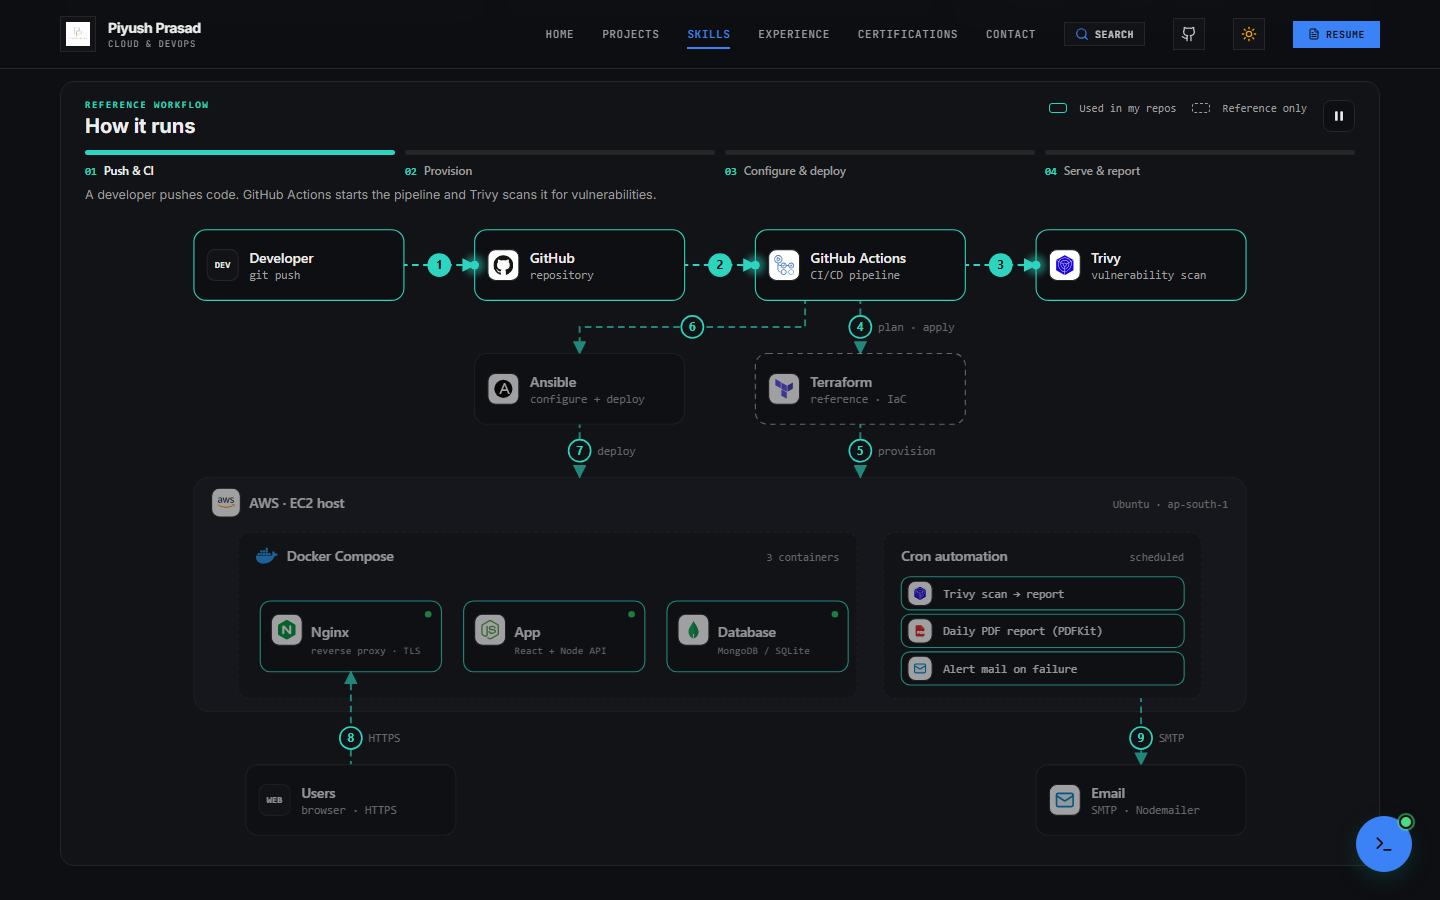
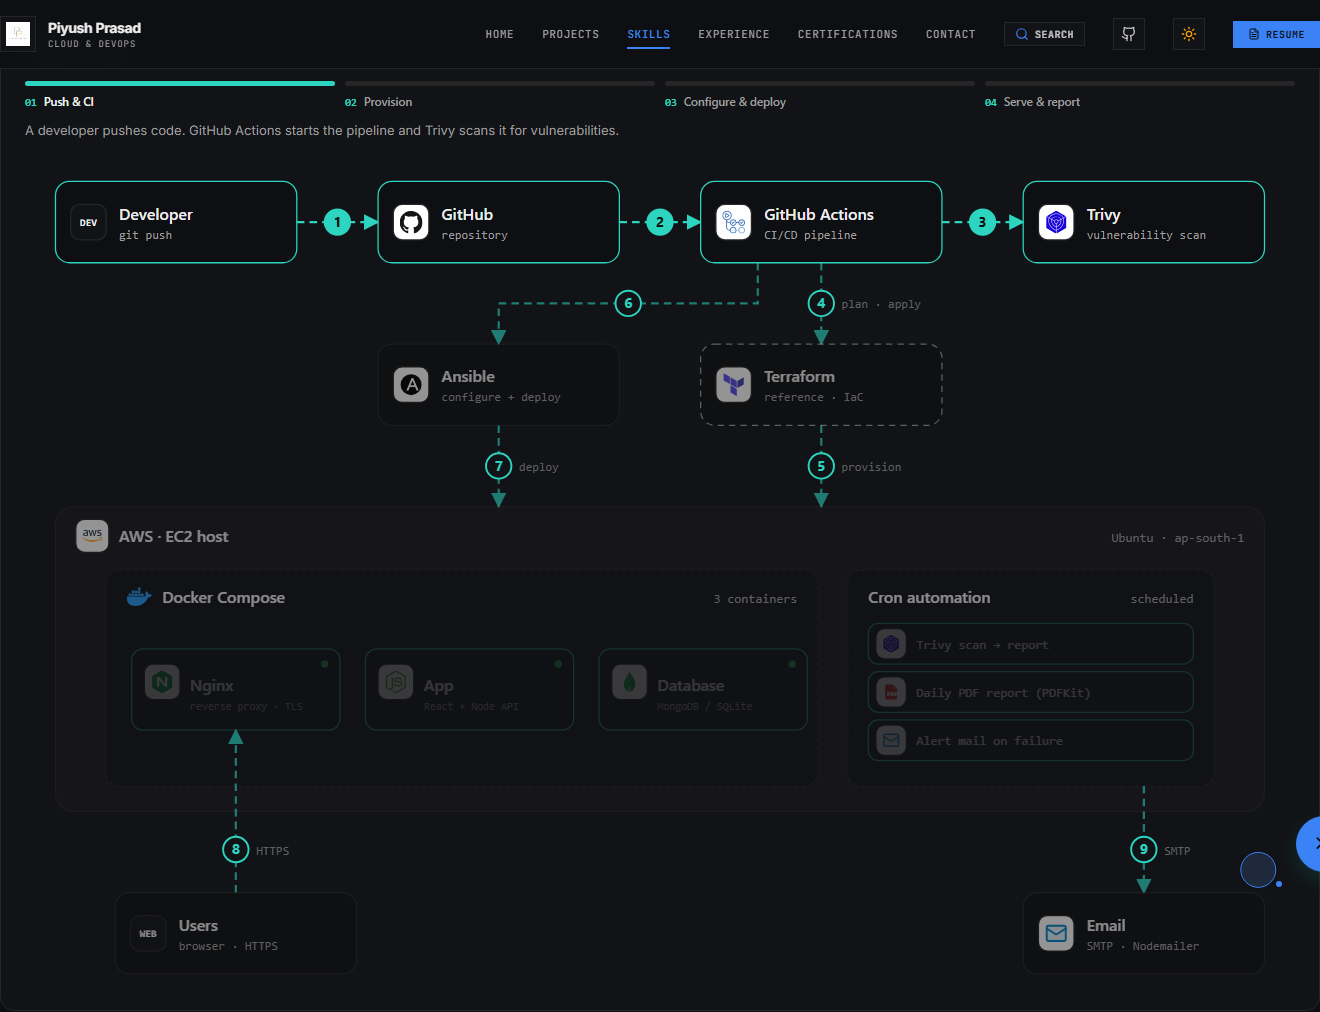
revert: revert feat(skills) compact HowItRuns card height to restore previous staging

diff --git a/src/components/portfolio/HowItRuns.tsx b/src/components/portfolio/HowItRuns.tsx
@@ -41,8 +41,8 @@ type Node = {
 const W = 190;
 const H = 64;
 const COL = [24, 278, 532, 786]; // node lefts, 64px gaps
-const ROW1 = 16;
-const ROW2 = 128;
+const ROW1 = 24;
+const ROW2 = 152;
 
 const NODES: Node[] = [
   { id: "dev", x: COL[0], y: ROW1, w: W, h: H, name: "Developer", sub: "git push", fb: "DEV", steps: [0], tip: "Pushes code to the repository" },
@@ -51,22 +51,22 @@ const NODES: Node[] = [
   { id: "trivy", x: COL[3], y: ROW1, w: W, h: H, name: "Trivy", sub: "vulnerability scan", logo: "trivy", fb: "TR", steps: [0], tip: "Scans the code and images for known vulnerabilities" },
   { id: "ans", x: COL[1], y: ROW2, w: W, h: H, name: "Ansible", sub: "configure + deploy", logo: "ansible", fb: "AN", steps: [2], tip: "ansible-playbook configures the server and deploys the app over SSH" },
   { id: "tf", x: COL[2], y: ROW2, w: W, h: H, name: "Terraform", sub: "reference · IaC", logo: "terraform", fb: "TF", steps: [1], ref: true, tip: "plan / apply creates the AWS resources as code (reference step)" },
-  { id: "users", x: 71, y: 500, w: W, h: H, name: "Users", sub: "browser · HTTPS", fb: "WEB", steps: [3], tip: "Visitors reach the app over HTTPS" },
-  { id: "mail", x: COL[3], y: 500, w: W, h: H, name: "Email", sub: "SMTP · Nodemailer", logo: "mail", fb: "@", steps: [3], tip: "Daily PDF report and alert emails" },
+  { id: "users", x: 71, y: 584, w: W, h: H, name: "Users", sub: "browser · HTTPS", fb: "WEB", steps: [3], tip: "Visitors reach the app over HTTPS" },
+  { id: "mail", x: COL[3], y: 584, w: W, h: H, name: "Email", sub: "SMTP · Nodemailer", logo: "mail", fb: "@", steps: [3], tip: "Daily PDF report and alert emails" },
 ];
 
 type Edge = { n: number; step: number; d: string; len: number; bx: number; by: number; tip: string; label?: { x: number; y: number; t: string } };
 
 const EDGES: Edge[] = [
-  { n: 1, step: 0, d: "M214 48 H278", len: 64, bx: 246, by: 48, tip: "git push to the repository" },
-  { n: 2, step: 0, d: "M468 48 H532", len: 64, bx: 500, by: 48, tip: "A push or pull request triggers the workflow" },
-  { n: 3, step: 0, d: "M722 48 H786", len: 64, bx: 754, by: 48, tip: "Security scan of the code and images" },
-  { n: 4, step: 1, d: "M627 80 V128", len: 48, bx: 627, by: 104, tip: "Pipeline runs terraform plan and apply", label: { x: 643, y: 108, t: "plan · apply" } },
-  { n: 5, step: 1, d: "M627 192 V240", len: 48, bx: 627, by: 216, tip: "Terraform creates the AWS environment", label: { x: 643, y: 220, t: "provision" } },
-  { n: 6, step: 2, d: "M577 80 V104 H373 V128", len: 252, bx: 475, by: 104, tip: "Pipeline connects to the Ansible server over SSH" },
-  { n: 7, step: 2, d: "M373 192 V240", len: 48, bx: 373, by: 216, tip: "ansible-playbook deploys to the EC2 host", label: { x: 389, y: 220, t: "deploy" } },
-  { n: 8, step: 3, d: "M166 500 V416", len: 84, bx: 166, by: 476, tip: "Users reach Nginx over HTTPS", label: { x: 182, y: 480, t: "HTTPS" } },
-  { n: 9, step: 3, d: "M881 440 V500", len: 60, bx: 881, by: 476, tip: "Cron jobs email the PDF report and alerts", label: { x: 897, y: 480, t: "SMTP" } },
+  { n: 1, step: 0, d: "M214 56 H278", len: 64, bx: 246, by: 56, tip: "git push to the repository" },
+  { n: 2, step: 0, d: "M468 56 H532", len: 64, bx: 500, by: 56, tip: "A push or pull request triggers the workflow" },
+  { n: 3, step: 0, d: "M722 56 H786", len: 64, bx: 754, by: 56, tip: "Security scan of the code and images" },
+  { n: 4, step: 1, d: "M627 88 V152", len: 64, bx: 627, by: 120, tip: "Pipeline runs terraform plan and apply", label: { x: 643, y: 124, t: "plan · apply" } },
+  { n: 5, step: 1, d: "M627 216 V280", len: 64, bx: 627, by: 248, tip: "Terraform creates the AWS environment", label: { x: 643, y: 252, t: "provision" } },
+  { n: 6, step: 2, d: "M577 88 V120 H373 V152", len: 268, bx: 475, by: 120, tip: "Pipeline connects to the Ansible server over SSH" },
+  { n: 7, step: 2, d: "M373 216 V280", len: 64, bx: 373, by: 248, tip: "ansible-playbook deploys to the EC2 host", label: { x: 389, y: 252, t: "deploy" } },
+  { n: 8, step: 3, d: "M166 584 V456", len: 128, bx: 166, by: 550, tip: "Users reach Nginx over HTTPS", label: { x: 182, y: 554, t: "HTTPS" } },
+  { n: 9, step: 3, d: "M881 500 V584", len: 84, bx: 881, by: 550, tip: "Cron jobs email the PDF report and alerts", label: { x: 897, y: 554, t: "SMTP" } },
 ];
 
 const STEPS = [
@@ -95,7 +95,7 @@ function Tile({ x, y, size = 28, href, fb }: { x: number; y: number; size?: numb
       {href ? (
         <image href={href} x={x + 5} y={y + 5} width={size - 10} height={size - 10} preserveAspectRatio="xMidYMid meet" />
       ) : (
-        <text x={x + size / 2} y={y + size / 2 + 3} textAnchor="middle" className="hir-mono hir-ink" fontSize={fb.length > 2 ? 8.5 : 10} fontWeight={700}>
+        <text x={x + size / 2} y={y + size / 2 + 3} textAnchor="middle" className="hir-mono hir-ink" fontSize={fb.length > 2 ? 8 : 9.5} fontWeight={700}>
           {fb}
         </text>
       )}
@@ -168,21 +168,6 @@ export default function HowItRuns() {
     };
   }, []);
 
-  useEffect(() => {
-    const updateHeaderChrome = () => {
-      const header = document.querySelector("header");
-      const headerHeight = header ? Math.round(header.getBoundingClientRect().height) : 70;
-      const el = rootRef.current;
-      if (el) {
-        el.style.setProperty("--hir-chrome", `${headerHeight + 178 + 12}px`);
-        el.style.scrollMarginTop = `${headerHeight + 12}px`;
-      }
-    };
-    updateHeaderChrome();
-    window.addEventListener("resize", updateHeaderChrome);
-    return () => window.removeEventListener("resize", updateHeaderChrome);
-  }, []);
-
   const running = playing && visible && !hover && !tabHidden && !reduced;
 
   useEffect(() => {
@@ -209,7 +194,6 @@ export default function HowItRuns() {
   const isOn = (steps: number[]) => reduced || steps.includes(s);
   const dim = (steps: number[]) => (isOn(steps) ? "" : "hir-dim");
   const animate = !reduced && visible && playing;
-  const groupActive = isOn([1, 2, 3]);
 
   // packets for the active step, one after another
   const packets: { path: string; begin: number; dur: number; key: string }[] = [];
@@ -224,14 +208,7 @@ export default function HowItRuns() {
     "Reference workflow: a developer pushes to GitHub, GitHub Actions runs Trivy and Terraform, Ansible deploys Docker containers to an AWS EC2 server, users reach it over HTTPS, and cron jobs email a daily PDF report.";
 
   return (
-    <section
-      id="how-it-runs"
-      ref={rootRef}
-      className="hir"
-      onMouseEnter={() => setHover(true)}
-      onMouseLeave={() => setHover(false)}
-      aria-label="How it runs"
-    >
+    <section ref={rootRef} className="hir" onMouseEnter={() => setHover(true)} onMouseLeave={() => setHover(false)} aria-label="How it runs">
       <style>{CSS}</style>
 
       <header className="hir-head">
@@ -309,7 +286,7 @@ export default function HowItRuns() {
           ))}
         </ol>
       ) : (
-        <svg className="hir-svg" viewBox="0 0 1000 580" role="img" aria-label={ariaLabel} preserveAspectRatio="xMidYMin meet">
+        <svg className="hir-svg" viewBox="0 0 1000 664" role="img" aria-label={ariaLabel} preserveAspectRatio="xMidYMin meet">
           <defs>
             <marker id="hir-ah" viewBox="0 0 10 10" refX="9" refY="5" markerWidth="7" markerHeight="7" orient="auto-start-reverse">
               <path d="M0,0 L10,5 L0,10 z" className="hir-arrow" />
@@ -321,24 +298,24 @@ export default function HowItRuns() {
 
           {/* AWS group (real containment: EC2 host runs Docker + cron jobs) */}
           <g className={dim([1, 2, 3])}>
-            <rect x="24" y="240" width="952" height="212" rx="14" className={`hir-group ${s === 1 || s === 2 ? "hir-group-on" : ""}`}>
+            <rect x="24" y="280" width="952" height="240" rx="14" className={`hir-group ${s === 1 || s === 2 ? "hir-group-on" : ""}`}>
               <title>AWS environment (EC2 host)</title>
             </rect>
-            <Tile x={40} y={250} size={26} href={logo("aws")} fb="AWS" />
-            <text x="74" y="268" className="hir-name">
+            <Tile x={40} y={290} size={26} href={logo("aws")} fb="AWS" />
+            <text x="74" y="308" className="hir-name">
               AWS · EC2 host
             </text>
-            <text x="960" y="268" textAnchor="end" className="hir-mono hir-muted" fontSize={10}>
+            <text x="960" y="308" textAnchor="end" className="hir-mono hir-muted" fontSize={10}>
               Ubuntu · ap-south-1
             </text>
 
             {/* Docker Compose block */}
-            <rect x="64" y="290" width="560" height="150" rx="10" className="hir-block" />
-            <image href={logo("docker")} x="80" y="301" width="20" height="20" preserveAspectRatio="xMidYMid meet" />
-            <text x="108" y="316" className="hir-name" fontSize={12}>
+            <rect x="64" y="330" width="560" height="170" rx="10" className="hir-block" />
+            <image href={logo("docker")} x="80" y="341" width="20" height="20" preserveAspectRatio="xMidYMid meet" />
+            <text x="108" y="356" className="hir-name" fontSize={12}>
               Docker Compose
             </text>
-            <text x="608" y="316" textAnchor="end" className="hir-mono hir-muted" fontSize={10}>
+            <text x="608" y="356" textAnchor="end" className="hir-mono hir-muted" fontSize={10}>
               3 containers
             </text>
             {[
@@ -346,36 +323,36 @@ export default function HowItRuns() {
               { x: 268, name: "App", sub: "React + Node API", logo: "nodejs", fb: "APP" },
               { x: 452, name: "Database", sub: "MongoDB / SQLite", logo: "mongodb", fb: "DB" },
             ].map((c, i) => (
-              <g key={c.name} className={isOn([2, 3]) ? "hir-in" : groupActive ? "hir-off" : ""} style={{ animationDelay: `${i * 150}ms` }}>
-                <rect x={c.x} y={352} width={164} height={64} rx={9} className="hir-chip" />
-                <circle cx={c.x + 152} cy={364} r={3} className="hir-dot" />
-                <Tile x={c.x + 10} y={364} size={28} href={logo(c.logo)} fb={c.fb} />
-                <text x={c.x + 46} y={385} className="hir-name" fontSize={12}>
+              <g key={c.name} className={isOn([2, 3]) ? "hir-in" : "hir-off"} style={{ animationDelay: `${i * 150}ms` }}>
+                <rect x={c.x} y={392} width={164} height={64} rx={9} className="hir-chip" />
+                <circle cx={c.x + 152} cy={404} r={3} className="hir-dot" />
+                <Tile x={c.x + 10} y={404} size={28} href={logo(c.logo)} fb={c.fb} />
+                <text x={c.x + 46} y={425} className="hir-name" fontSize={12}>
                   {c.name}
                 </text>
-                <text x={c.x + 46} y={400} className="hir-mono hir-muted" fontSize={9.5}>
+                <text x={c.x + 46} y={440} className="hir-mono hir-muted" fontSize={8.5}>
                   {c.sub}
                 </text>
               </g>
             ))}
 
             {/* Cron automation block */}
-            <rect x="648" y="290" width="288" height="150" rx="10" className="hir-block" />
-            <text x="664" y="316" className="hir-name" fontSize={12}>
+            <rect x="648" y="330" width="288" height="170" rx="10" className="hir-block" />
+            <text x="664" y="356" className="hir-name" fontSize={12}>
               Cron automation
             </text>
-            <text x="920" y="316" textAnchor="end" className="hir-mono hir-muted" fontSize={10}>
+            <text x="920" y="356" textAnchor="end" className="hir-mono hir-muted" fontSize={10}>
               scheduled
             </text>
             {[
-              { y: 330, t: "Trivy scan → report", logo: "trivy", fb: "TR" },
-              { y: 364, t: "Daily PDF report (PDFKit)", logo: "pdf", fb: "PDF" },
-              { y: 398, t: "Alert mail on failure", logo: "mail", fb: "@" },
+              { y: 372, t: "Trivy scan → report", logo: "trivy", fb: "TR" },
+              { y: 410, t: "Daily PDF report (PDFKit)", logo: "pdf", fb: "PDF" },
+              { y: 448, t: "Alert mail on failure", logo: "mail", fb: "@" },
             ].map((r, i) => (
-              <g key={r.t} className={s === 3 || reduced ? "hir-in" : groupActive ? "hir-off" : ""} style={{ animationDelay: `${i * 150}ms` }}>
-                <rect x={664} y={r.y} width={256} height={30} rx={8} className="hir-chip" />
-                <Tile x={670} y={r.y + 4} size={22} href={logo(r.logo)} fb={r.fb} />
-                <text x={702} y={r.y + 19} className="hir-mono hir-ink" fontSize={10.5}>
+              <g key={r.t} className={s === 3 || reduced ? "hir-in" : "hir-off"} style={{ animationDelay: `${i * 150}ms` }}>
+                <rect x={664} y={r.y} width={256} height={32} rx={8} className="hir-chip" />
+                <Tile x={670} y={r.y + 4} size={24} href={logo(r.logo)} fb={r.fb} />
+                <text x={702} y={r.y + 20} className="hir-mono hir-ink" fontSize={10}>
                   {r.t}
                 </text>
               </g>
@@ -389,7 +366,7 @@ export default function HowItRuns() {
                 <title>{e.tip}</title>
               </path>
               {e.label && (
-                <text x={e.label.x} y={e.label.y} className="hir-mono hir-muted" fontSize={10.5}>
+                <text x={e.label.x} y={e.label.y} className="hir-mono hir-muted" fontSize={9.5}>
                   {e.label.t}
                 </text>
               )}
@@ -406,7 +383,7 @@ export default function HowItRuns() {
               <text x={n.x + 50} y={n.y + 30} className="hir-name">
                 {n.name}
               </text>
-              <text x={n.x + 50} y={n.y + 45} className="hir-mono hir-muted" fontSize={10.5}>
+              <text x={n.x + 50} y={n.y + 45} className="hir-mono hir-muted" fontSize={9.5}>
                 {n.sub}
               </text>
             </g>
@@ -432,9 +409,7 @@ const CSS = `
   --hir-text:var(--foreground,#121316); --hir-muted:var(--muted-foreground,#5A5C66);
   --hir-border:var(--border,#E5E5DF); --hir-acc:var(--accent-teal,#0F766E); --hir-acc-soft:#E4F2F0;
   --hir-ok:#16A34A; --hir-on:#FFFFFF;
-  --hir-chrome:260px;
-  scroll-margin-top:calc(70px + 12px);
-  background:var(--hir-bg); border:1px solid var(--hir-border); border-radius:14px; padding:18px 24px 12px;
+  background:var(--hir-bg); border:1px solid var(--hir-border); border-radius:14px; padding:24px 24px 16px;
   color:var(--hir-text); width:100%; box-sizing:border-box;
 }
 .dark .hir,[data-theme="dark"] .hir{
@@ -452,7 +427,7 @@ const CSS = `
 .hir-key-ref{border-style:dashed;border-color:var(--hir-muted)}
 .hir-btn{width:32px;height:32px;display:grid;place-items:center;border-radius:8px;border:1px solid var(--hir-border);background:var(--hir-surf);color:var(--hir-text);cursor:pointer}
 .hir-btn:focus-visible,.hir-seg:focus-visible{outline:2px solid var(--hir-acc);outline-offset:2px}
-.hir-steps{display:grid;grid-template-columns:repeat(4,1fr);gap:10px;margin:12px 0 8px}
+.hir-steps{display:grid;grid-template-columns:repeat(4,1fr);gap:10px;margin:18px 0 12px}
 .hir-seg{border:0;padding:0;background:none;cursor:pointer;text-align:left;color:var(--hir-muted)}
 .hir-seg::before{content:"";display:block;height:5px;border-radius:3px;background:var(--hir-border);margin-bottom:8px}
 .hir-seg-done::before{background:var(--hir-acc);opacity:.45}
@@ -460,10 +435,8 @@ const CSS = `
 .hir-seg-label{font:500 11.5px system-ui,sans-serif;white-space:nowrap;overflow:hidden;text-overflow:ellipsis;display:block}
 .hir-seg-label b{font:600 10.5px ui-monospace,Menlo,monospace;color:var(--hir-acc);margin-right:4px}
 .hir-seg-on .hir-seg-label{color:var(--hir-text);font-weight:600}
-.hir-caption{margin:0 0 6px;min-height:20px;font-size:12.5px;line-height:1.45;color:var(--hir-muted)}
-/* The whole card must fit on one screen: the diagram is limited by the viewport height.
-   --hir-chrome = sticky site header + card header/steps/caption + breathing room. */
-.hir-svg{display:block;width:100%;height:auto;max-height:calc(100dvh - var(--hir-chrome,250px));min-height:380px}
+.hir-caption{margin:0 0 8px;min-height:22px;font-size:13px;line-height:1.5;color:var(--hir-muted)}
+.hir-svg{display:block;width:100%;height:auto}
 .hir-mono{font-family:ui-monospace,Menlo,monospace}
 .hir-name{font:600 12.5px system-ui,-apple-system,Segoe UI,Roboto,sans-serif;fill:var(--hir-text)}
 .hir-muted{fill:var(--hir-muted)}
@@ -484,13 +457,13 @@ const CSS = `
 .hir-badge text{font:700 11px system-ui,sans-serif;fill:var(--hir-acc)}
 .hir-badge-on circle{fill:var(--hir-acc)}
 .hir-badge-on text{fill:var(--hir-on)}
-.hir-dim{opacity:.6}
+.hir-dim{opacity:.55}
 .hir g{transition:opacity .35s}
 .hir-packet-glow{fill:var(--hir-acc)}
 .hir-packet-dot{fill:var(--hir-acc)}
 .hir-flow{animation:hir-dash 12s linear infinite}
 @keyframes hir-dash{to{stroke-dashoffset:-120}}
-.hir-off{opacity:.5}
+.hir-off{opacity:.3}
 .hir-in{animation:hir-in .45s both}
 @keyframes hir-in{from{opacity:0;transform:translateY(4px)}to{opacity:1;transform:none}}
 .hir-list{list-style:none;margin:0;padding:0;display:flex;flex-direction:column;gap:10px}
